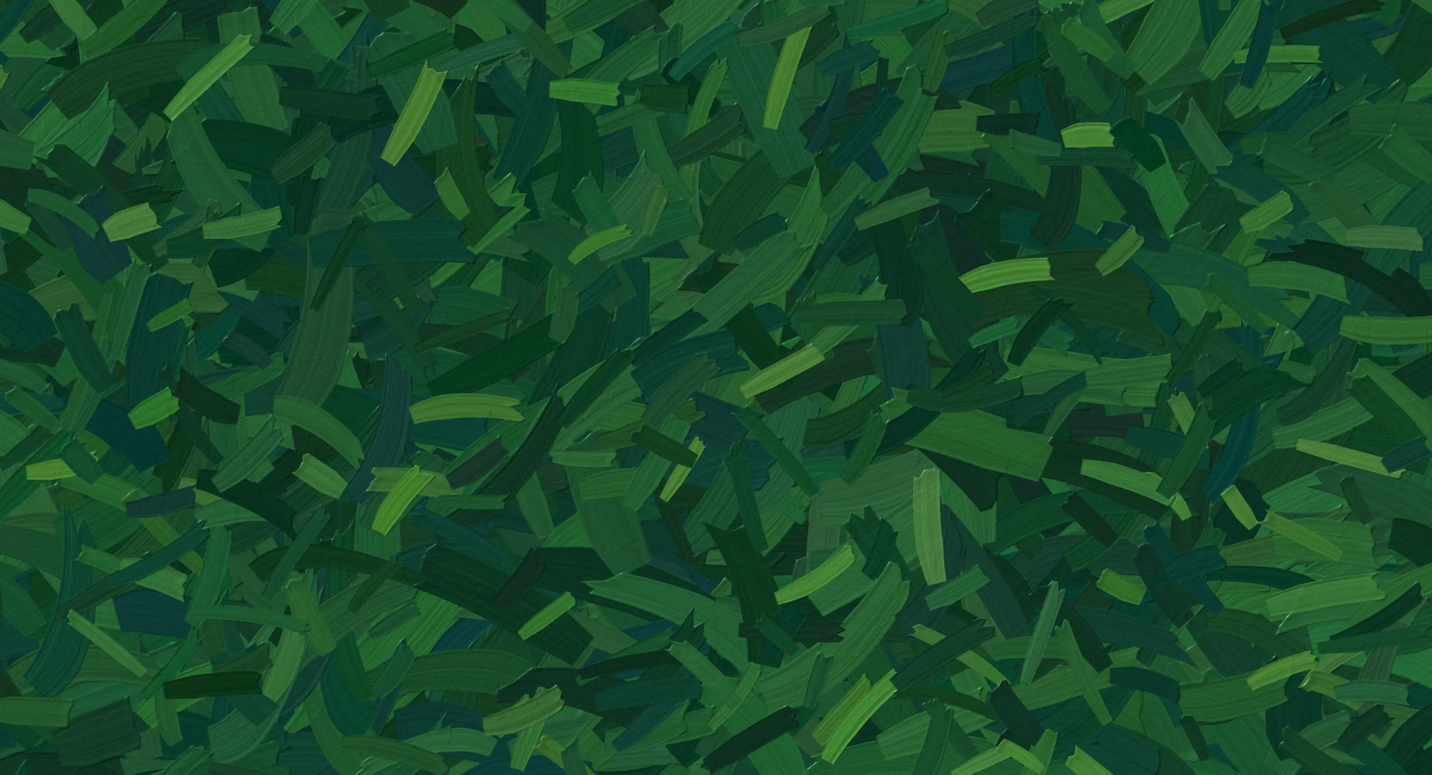
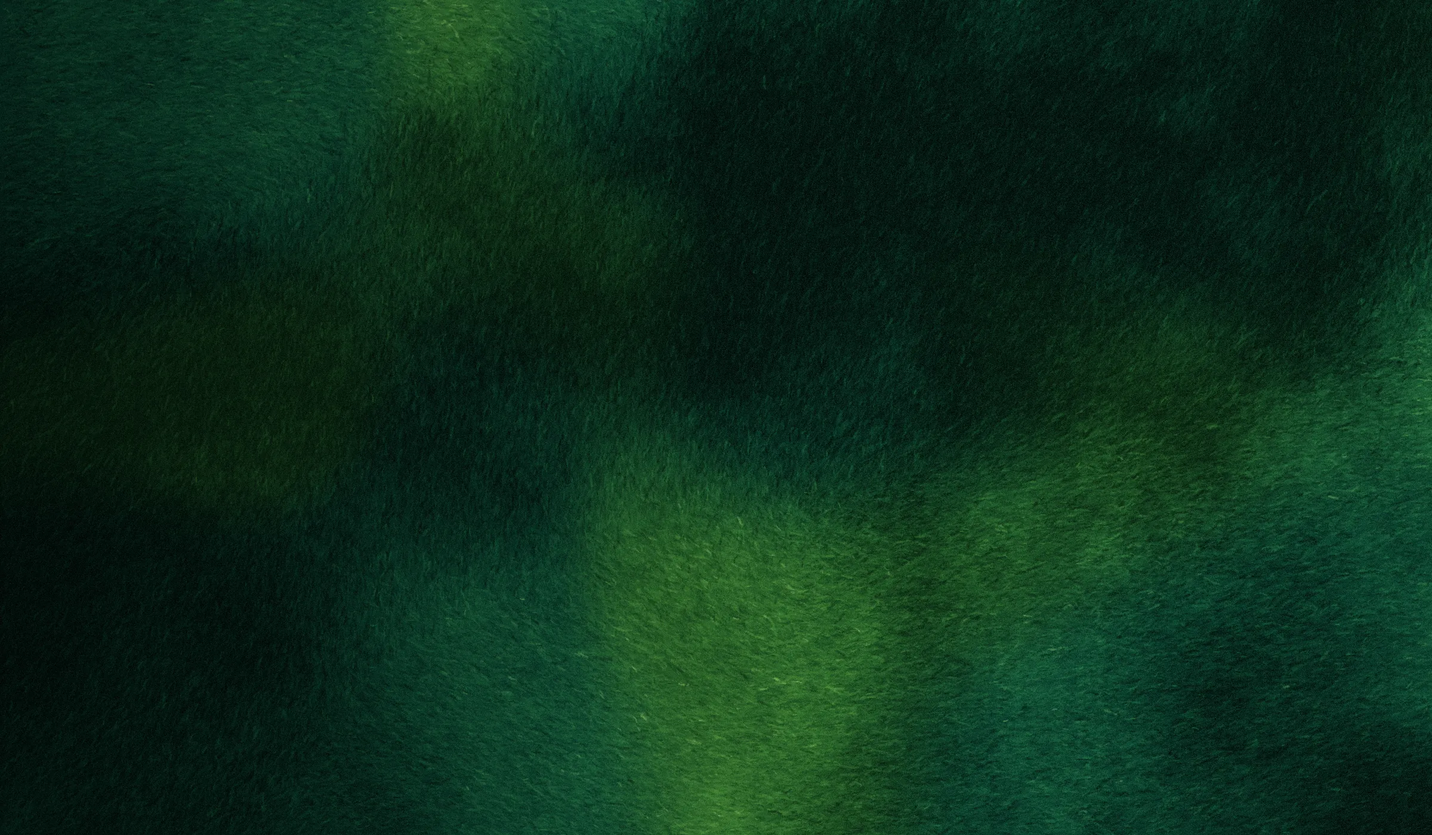
corpcover: page grounds use the home grass texture, Bronkhorst colours
Same technique as the home hero (blades over a shaded field); each page
keeps its terrain as a colour scheme: forest, jungle, striped pitch,
worn grass court, lime fairway, light green.

diff --git a/corpcover/src/app/globals.css b/corpcover/src/app/globals.css
@@ -664,7 +664,6 @@ h1, h2, h3 { text-wrap: balance; }
 /* Cards keep the light palette on a painted ground */
 .terrain-dark .bg-paper, .terrain-dark .chat-window { color: #141816; --ink: #141816; --ink-2: #5e6460; --ink-3: #858b87; --accent: #14432f; }
 .terrain-light .qf, .terrain-light .gc-card { background: transparent; }
-.terrain-tennis { background-position: right top; }
 .terrain-dark input { color: #141816; }
 .terrain-dark input::placeholder { color: #858b87; }
 .terrain-light { --ink-2: #3c423e; --ink-3: #4f5652; }
